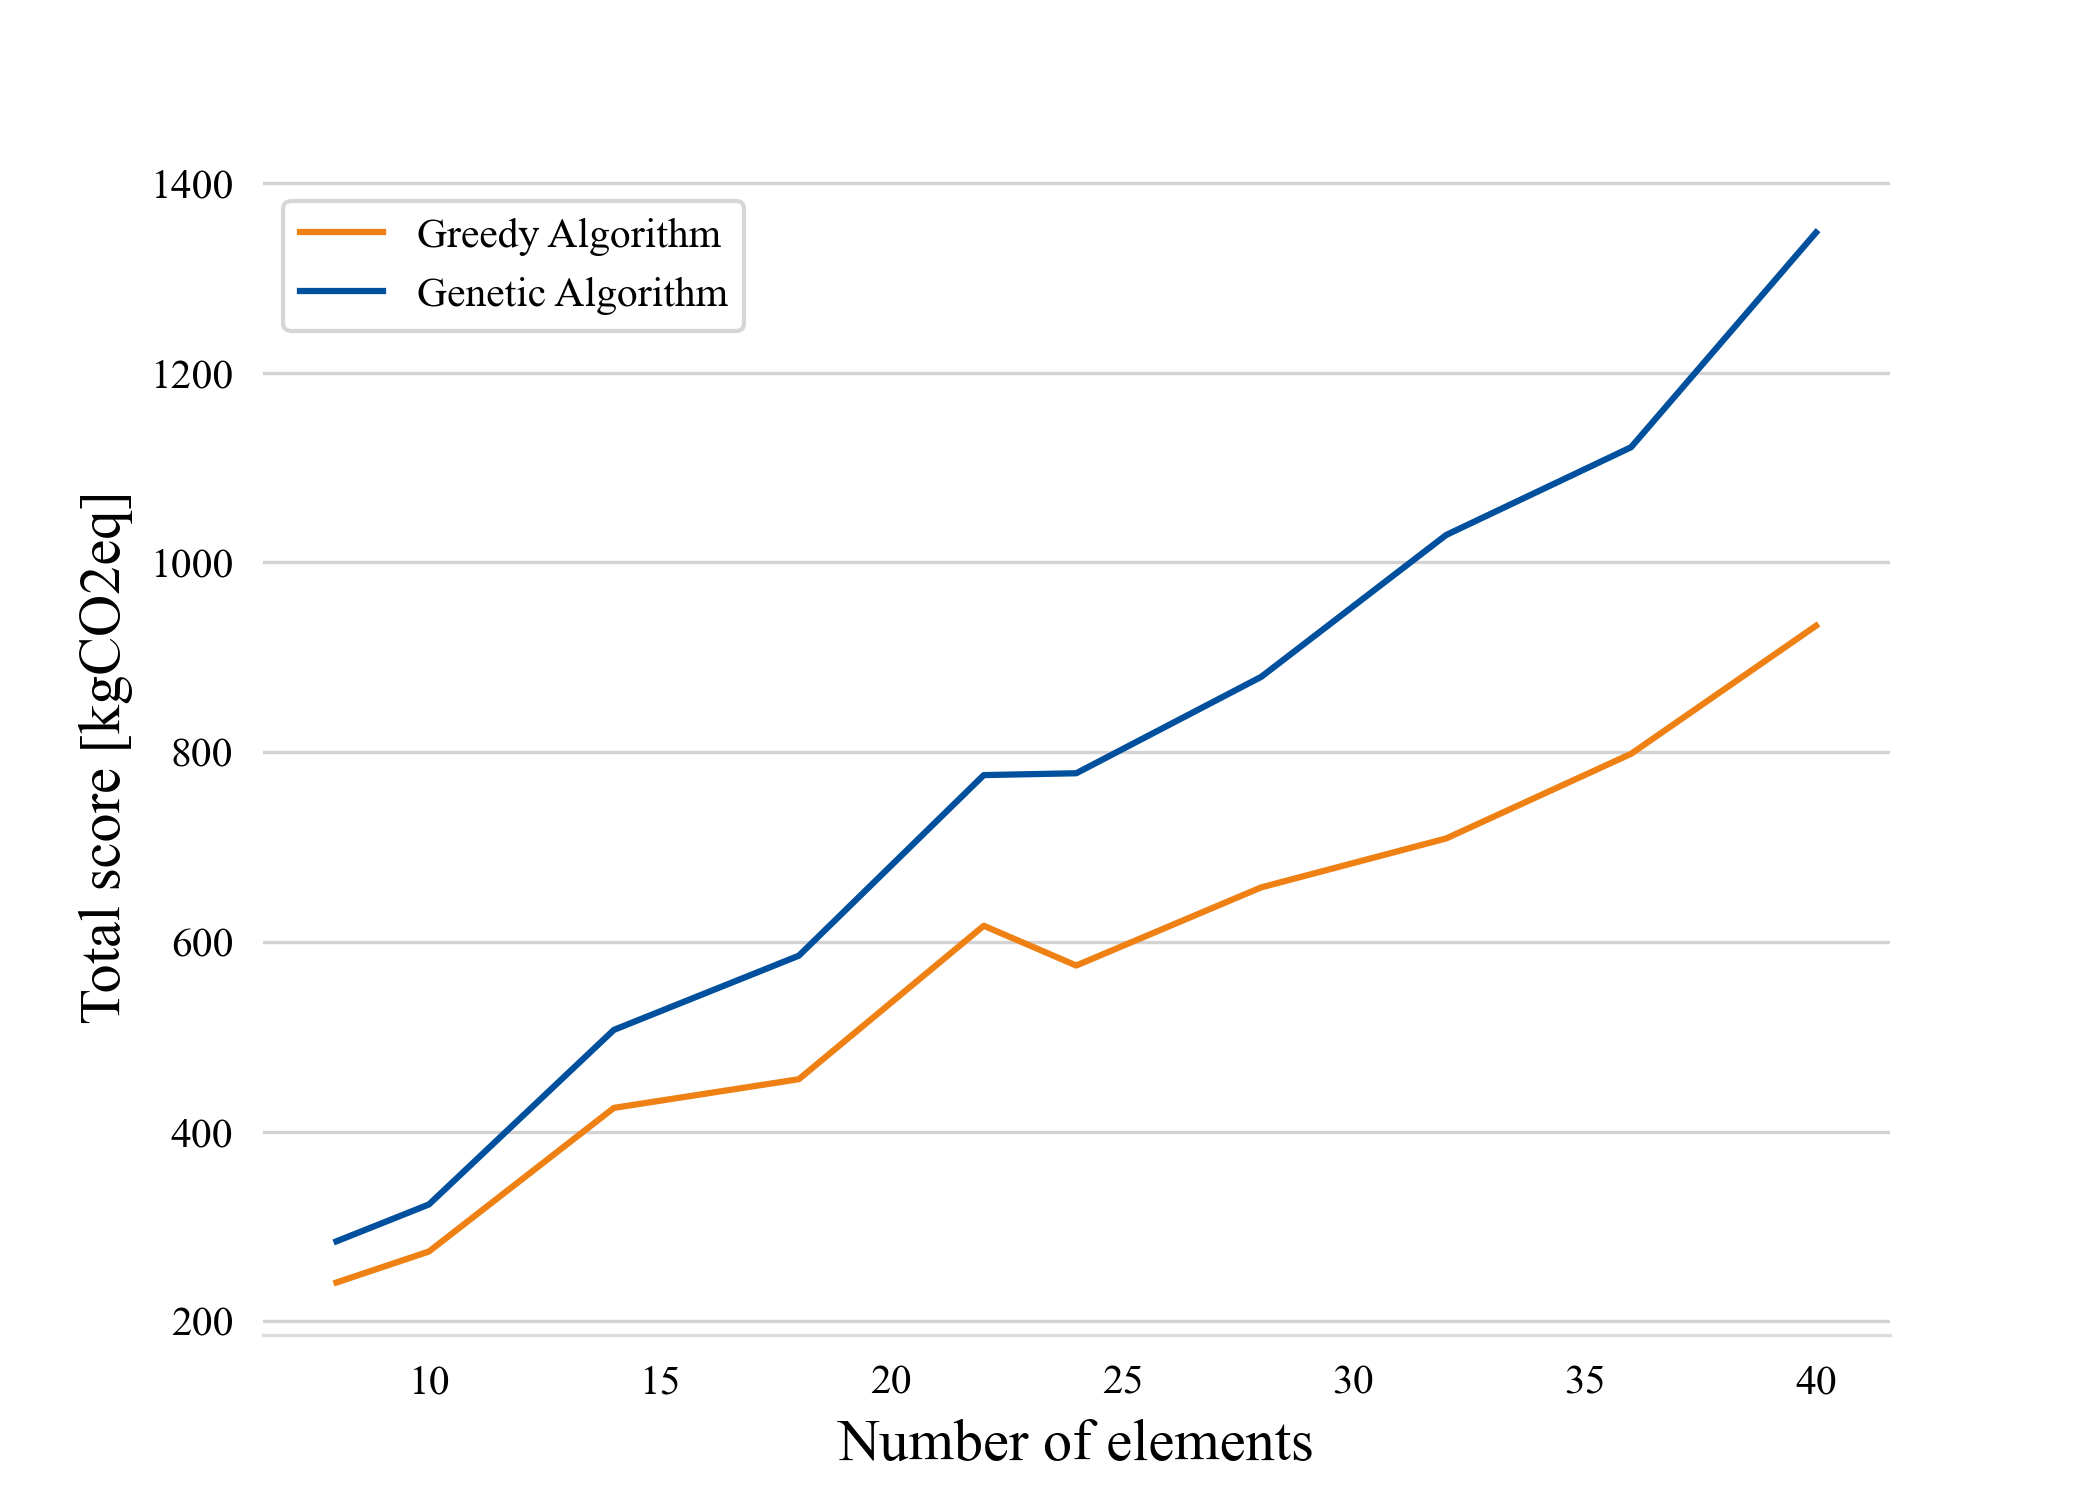
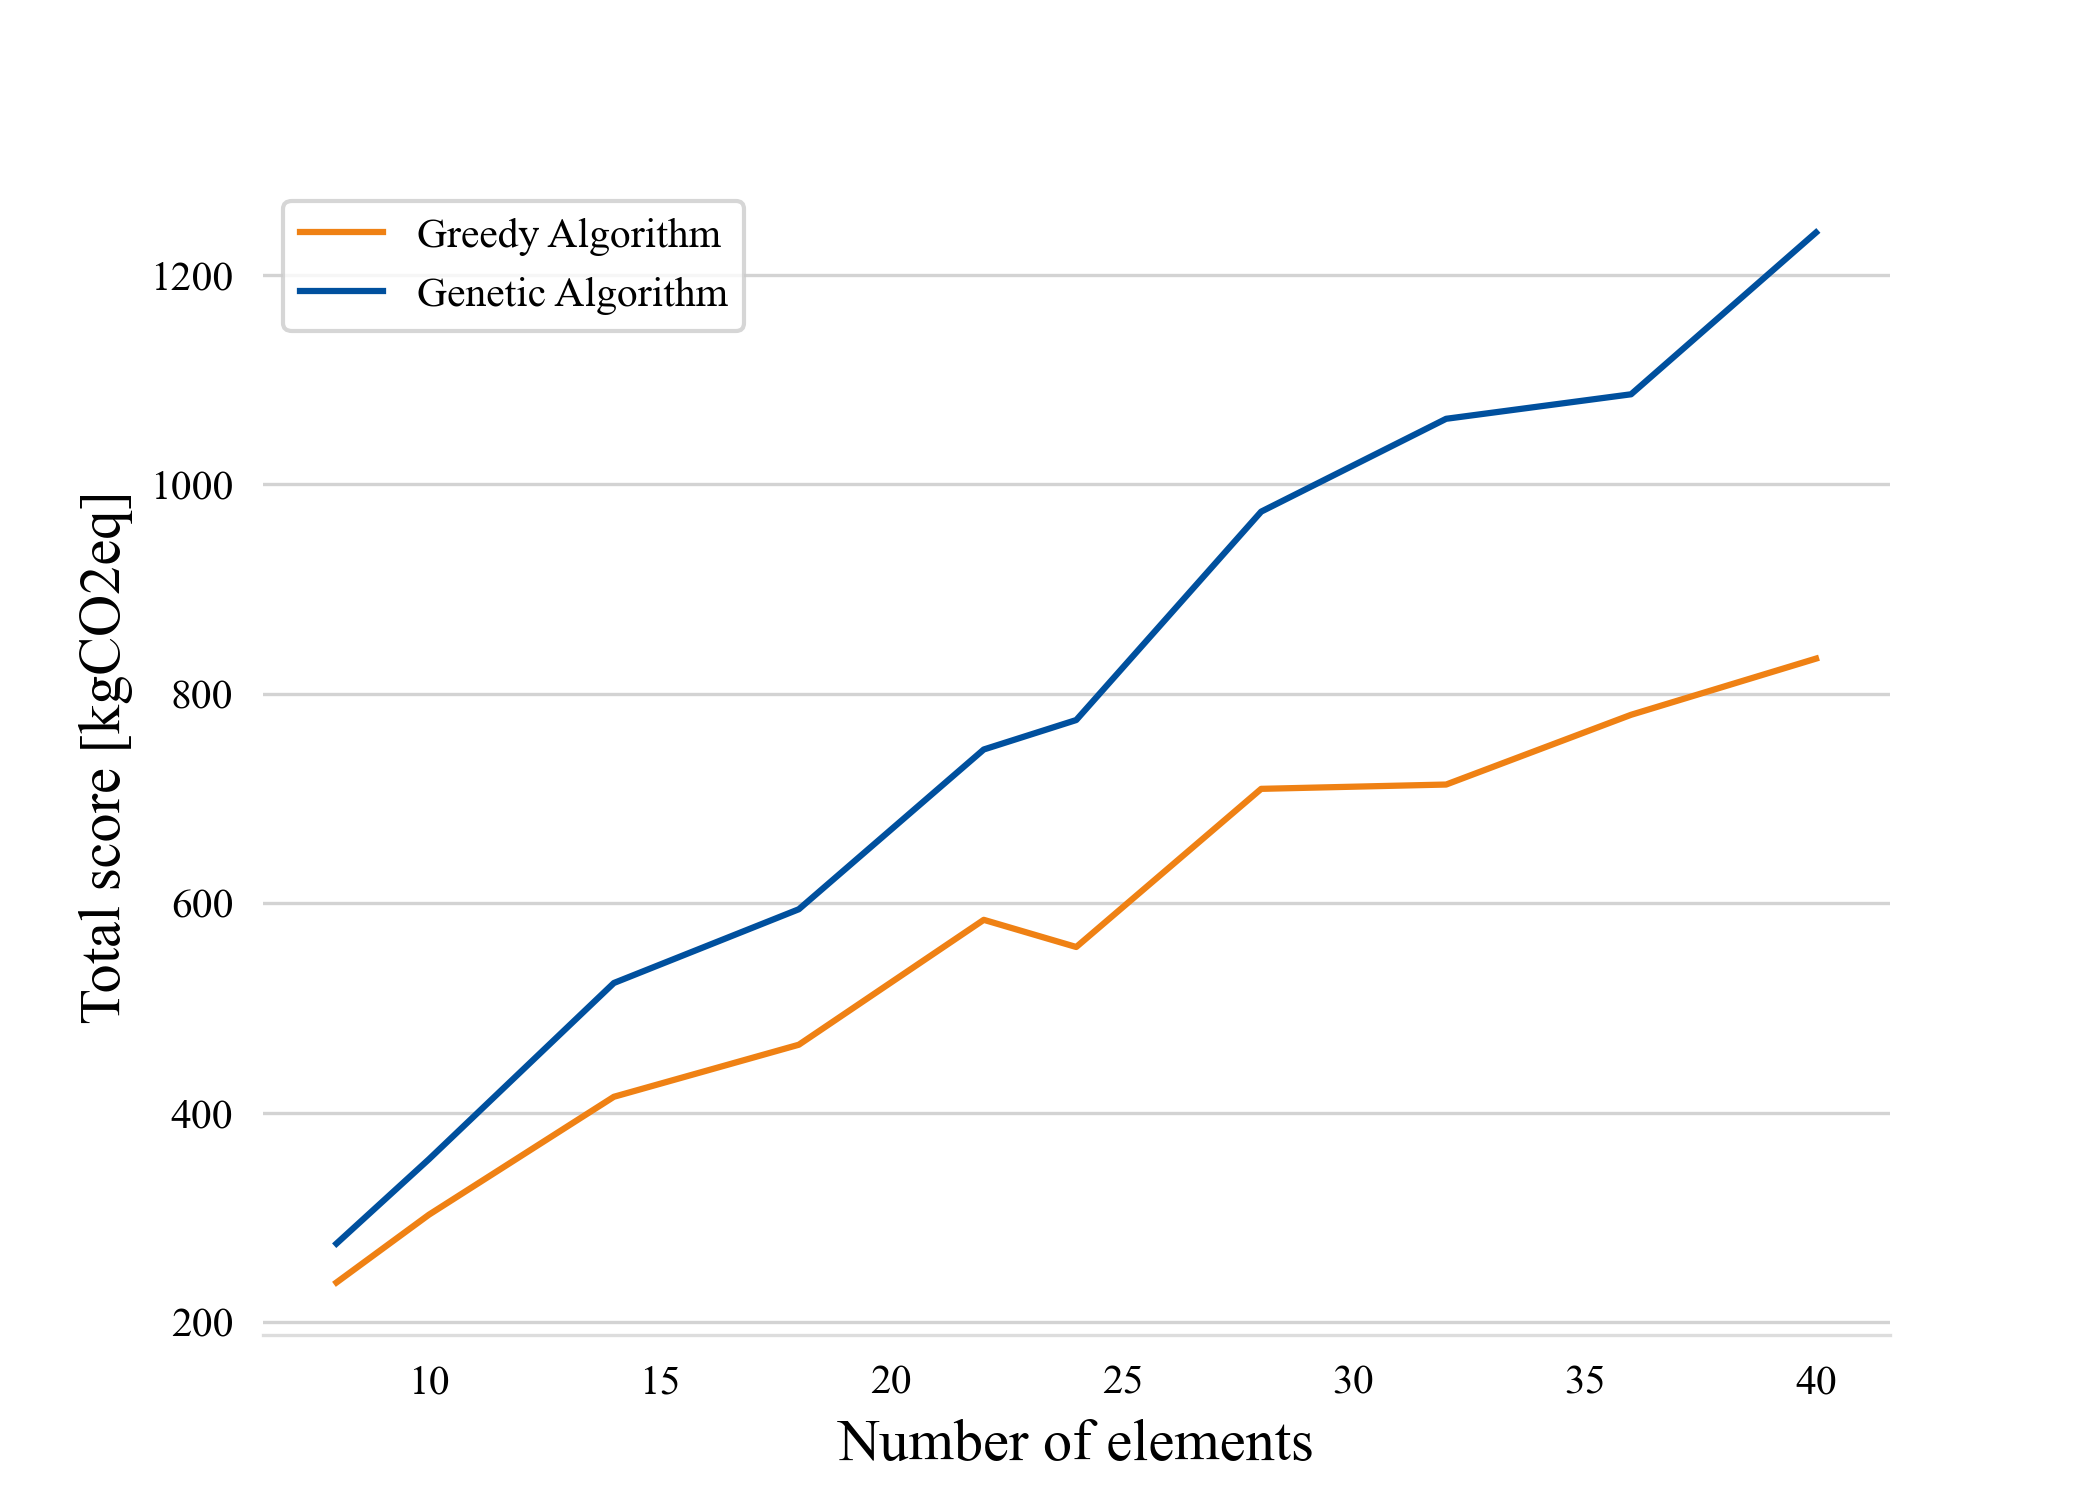
Ready to run MBM results

diff --git a/TestCases/study_case_bipartite_plural.py b/TestCases/study_case_bipartite_plural.py
@@ -21,14 +21,14 @@ constants = {
     "VALUATION_GWP": 0.7, #NOK per kg CO2, based on OECD
     "TIMBER_PRICE": 3400.0, #Per m^3, Treindustrien 2023
     "TIMBER_REUSE_PRICE" : 3400.0, #Per m^3, assumes the price is the same is new elements
-    "STEEL_PRICE": 67, #NOK per kg, ENTRA 2021
-    "STEEL_REUSE_PRICE": 100, #NOK per kg, ENTRA 2021
-    "PRICE_TRANSPORTATION": 0.3, #NOK per km per tonne, Grønland 2022 + Gran 2013
-    "STEEL_DENSITY": 7850, #kg/m^3 EUROCODE
+    "STEEL_PRICE": 67.0, #NOK per kg, ENTRA 2021
+    "STEEL_REUSE_PRICE": 67.0, #NOK per kg, ENTRA 2021
+    "PRICE_TRANSPORTATION": 4.0, #NOK per km per tonne, Grønland 2022 + Gran 2013
+    "STEEL_DENSITY": 7850.0, #kg/m^3 EUROCODE
     ########################
     "Project name": "Campussamling Hesthagen",
     "Metric": "GWP",
-    "Algorithms": ["bipartite_plural", "bipartite_plural_multiple"],
+    "Algorithms": ["bipartite", "bipartite_plural", "bipartite_plural_multiple"],
     "Include transportation": False,
     "Site latitude": "63.4154171",
     "Site longitude": "10.3994672",
@@ -41,20 +41,18 @@ constants = {
 def generate_datasets(d_counts, s_counts):
     supply_coords = pd.DataFrame(columns = ["Location", "Latitude", "Longitude"])
 
-    tiller = ["Tiller", "63.3590272", "10.3751236"]
+    steinkjer = ["Steinkjer", "64.024861", "11.4891085"]
     storen = ["Støren", "63.033639", "10.286356"]
     orkanger = ["Orkanger", "63.3000", "9.8468"]
     meraker = ["Meråker", "63.415312", "11.747262"]
-    hell = ["Hell", "63.4452539", "10.8971079"]
+    berkak = ["Berkåk", "62.8238946","9.9934341"]
     melhus = ["Melhus", "63.2897753", "10.2934154"]
 
-
-
-    supply_coords.loc[len(supply_coords)] = tiller
+    supply_coords.loc[len(supply_coords)] = steinkjer
     supply_coords.loc[len(supply_coords)] = storen
     supply_coords.loc[len(supply_coords)] = orkanger
     supply_coords.loc[len(supply_coords)] = meraker
-    supply_coords.loc[len(supply_coords)] = hell
+    supply_coords.loc[len(supply_coords)] = berkak
     supply_coords.loc[len(supply_coords)] = melhus
 
 
@@ -70,9 +68,9 @@ def generate_datasets(d_counts, s_counts):
 
 # ========== Comparing bipartite plural vs bipartite plural multiple ============== 
 var1 = 1
-d_counts = np.linspace(4, 100, num = 4).astype(int)
+d_counts = np.linspace(50, 500, num = 10).astype(int)
 s_counts = (d_counts * var1).astype(int)
-internal_runs = 20
+internal_runs = 100
 constraint_dict = constants["constraint_dict"]
 score_function_string = hm.generate_score_function_string(constants)
 run_string = hm.generate_run_string(constants)
@@ -114,5 +112,5 @@ for d, s in zip(d_counts, s_counts):
 #pairs_df = pd.concat([res['Match object'].pairs for res in results[0]], axis = 1)
 #pairs_df.columns = [res[list(res.keys())[0]] for res in results[0]]
 
-plot.plot_algorithm(time_dict, x_values, xlabel = "Number of elements", ylabel = "Running time [s]", title = "", fix_overlapping=False, save_filename="bipartite_results_time.png")
-plot.plot_algorithm(score_dict, x_values, xlabel = "Number of elements", ylabel = "Total score [kg CO2 eq.]", title = "", fix_overlapping=True, save_filename="bipartite_results_score.png")
+plot.plot_algorithm(time_dict, x_values, xlabel = "Number of elements", ylabel = "Runtime [s]", title = "", fix_overlapping=False, save_filename="bipartite_results_time_test.png")
+plot.plot_algorithm(score_dict, x_values, xlabel = "Number of elements", ylabel = "Total score [kgCO2eq]", title = "", fix_overlapping=True, save_filename="bipartite_results_score_test.png")

diff --git a/Matching/matching.py b/Matching/matching.py
@@ -995,7 +995,7 @@ def run_matching(demand, supply, score_function_string, constraints = None, add_
         matches.append({'Name': 'Greedy Algorithm Plural', 'Match object': copy(matching), 'Time': matching.solution_time, 'PercentNew': matching.pairs.isna().sum()})
     if bipartite:
         matching.match_bipartite_graph()
-        matches.append({'Name': 'Maximum Bipartite Matching', 'Match object': copy(matching), 'Time': matching.solution_time, 'PercentNew': matching.pairs.isna().sum()})
+        matches.append({'Name': 'MBM', 'Match object': copy(matching), 'Time': matching.solution_time, 'PercentNew': matching.pairs.isna().sum()})
     if milp:
         matching.match_mixed_integer_programming()
         matches.append({'Name': 'MILP','Match object': copy(matching), 'Time': matching.solution_time, 'PercentNew': matching.pairs.isna().sum()})
@@ -1011,11 +1011,11 @@ def run_matching(demand, supply, score_function_string, constraints = None, add_
 
     if bipartite_plural:
         matching.match_bipartite_plural()
-        matches.append({'Name': 'Maximum Bipartite Matching Plural','Match object': copy(matching), 'Time': matching.solution_time, 'PercentNew': matching.pairs.isna().sum()})
+        matches.append({'Name': 'MBM Plural','Match object': copy(matching), 'Time': matching.solution_time, 'PercentNew': matching.pairs.isna().sum()})
 
     if bipartite_plural_multiple:
         matching.match_bipartite_plural_multiple()
-        matches.append({'Name': 'Maximum Bipartite Matching Plural Multiple','Match object': copy(matching), 'Time': matching.solution_time, 'PercentNew': matching.pairs.isna().sum()})
+        matches.append({'Name': 'MBM Plural Multiple','Match object': copy(matching), 'Time': matching.solution_time, 'PercentNew': matching.pairs.isna().sum()})
     return matches
 
 
